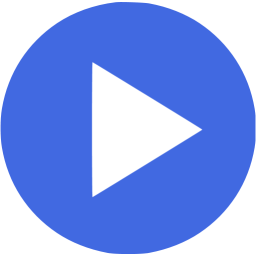
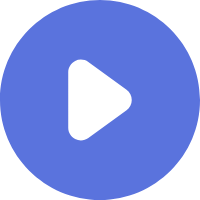
Image changed

diff --git a/index.html b/index.html
@@ -51,8 +51,9 @@
         <a href="#" class="white">See courses</a>
       </div>
       <div class="vidcontainer">
-        <img class="video" src="image.png">
-        <img src="images.png" onclick="show()" class="play" height="50" width="50">
+        <img class="video" src="images.JPG">
+        <img src="play.png" onclick="show()" class="play" height="50" width="50">
+        <div class="blue-overlay"></div>
       </div>
     </div>
     <div class="botmenu">

diff --git a/main.css b/main.css
@@ -79,6 +79,7 @@ a:hover{
   top: 43%;
   left: 43%;
   border-radius: 50%;
+  z-index: 100;
 }
 
 .buttons a{
@@ -120,8 +121,8 @@ a:hover{
     flex-direction: column !important;
   }
   .video{
-    width: 400px;
-    height: 300px;
+    width: 300px;
+    height: 200px;
   }
 }
 

diff --git a/second.css b/second.css
@@ -23,6 +23,15 @@ body {
   font-size: 24px;
 }
 
+.blue-overlay{
+  background-color: rgba(83,137,248,0.3);
+  top: 0;
+  left: 0;
+  position: absolute;
+  width: 100%;
+  height: 100%;
+}
+
 .hero {
   letter-spacing: 1px;
   font-size: 40px !important;
